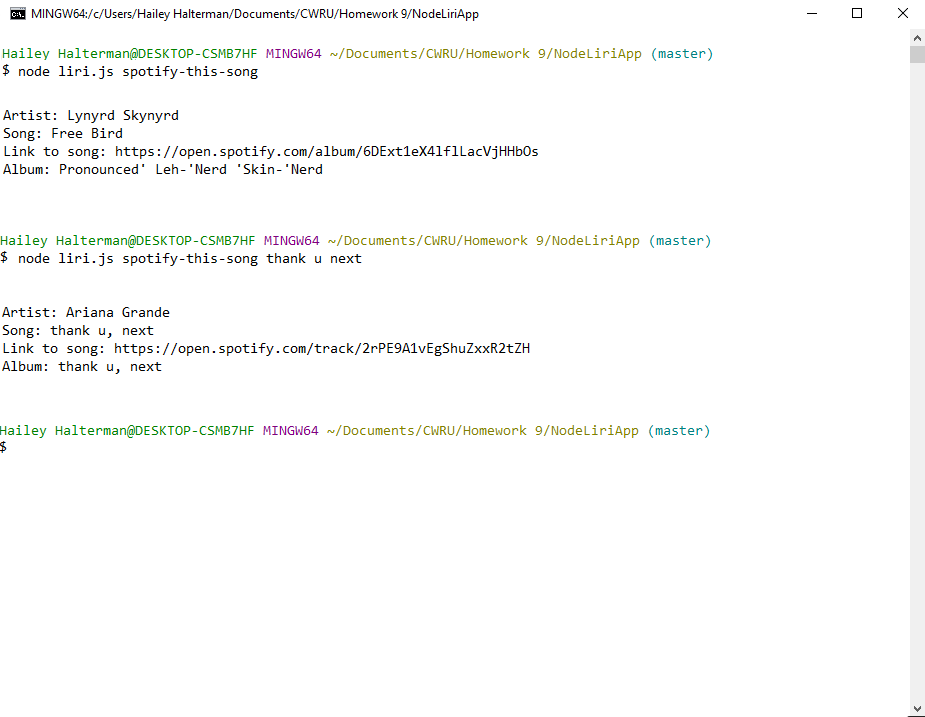
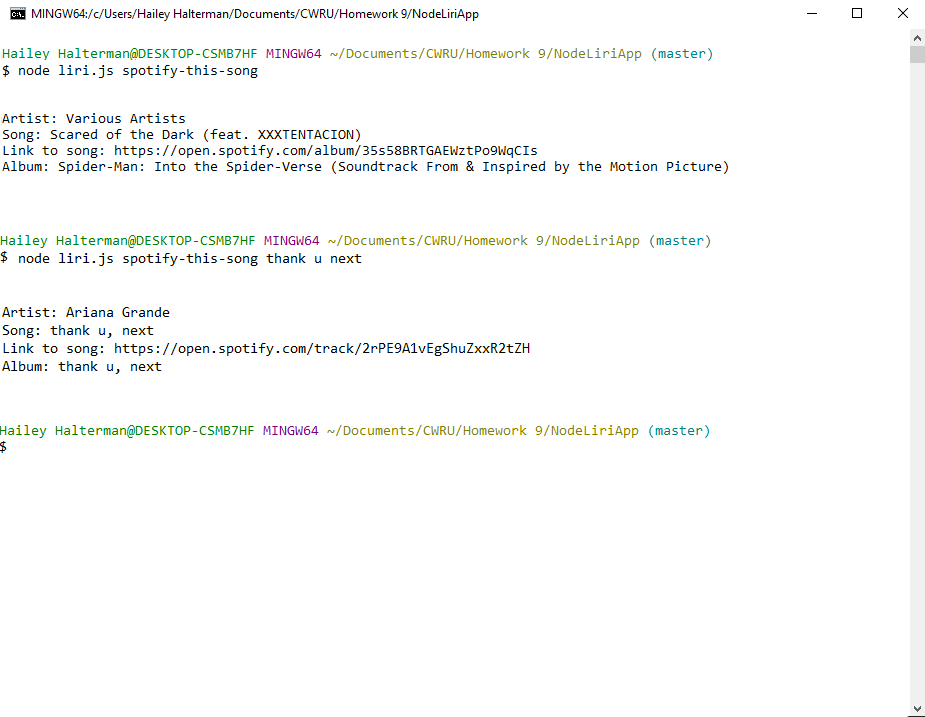
updated the readme to add what happens if you don't input something

Changed region(s): [[0.0, 0.1534, 0.787, 0.2455], [0.0, 0.0921, 0.2724, 0.1227]]

diff --git a/liri.js b/liri.js
@@ -74,7 +74,7 @@ function movieThis(){
 function spotifyThis(){
     var data;
     if (input === ""){
-        input = "Free Bird";
+        input = "Scared of the Dark";
         songSearch();
     } else {
         songSearch();

diff --git a/README.md b/README.md
@@ -5,16 +5,19 @@ LIRI is like iPhone's SIRI. However, while SIRI is a Speech Interpretation and R
 
 ### What Each Command Should Do
 - concert-this `<artist/band name here>`
-    - Function takes the userInput (command) and the userQuery(artist), and returns the next venue name, venue location and date of the event 
+    - Function takes the userInput (command) and the userQuery(band/ artist), and returns the next venue name, venue location and date of the event 
+    - If no band is entered, it will inform the user to enter a band
     ![image of concert-this in bash](/images/concert-this.png)
 
 - movie-this `<movie name here>`
     - Function takes the userInput (command) and the userQuery(song), and returns title of the movie, year the movie came out, IMDB Rating of the movie , Rotten Tomatoes Rating of the movie, country where the movie was produced, language of the movie, plot of the movie, and actors in the movie.
+    - If no movie is entered, it will suggest that you go watch Mr. Nobody on Netflix
     ![image of movie-this in bash](/images/movie-this.png)
  
 
 - spotify-this-song `<song name here>`
     - Function takes the userInput (command) and the userQuery(song), and returns the artist, full track name, a link to the song and the album.
+    - If no song is entered, it will return the specs for the song "Scared of the Dark"
     ![image of spotify-this-song in bash](/images/spotify-this-song.png)
 
 - do-what-it-says 
